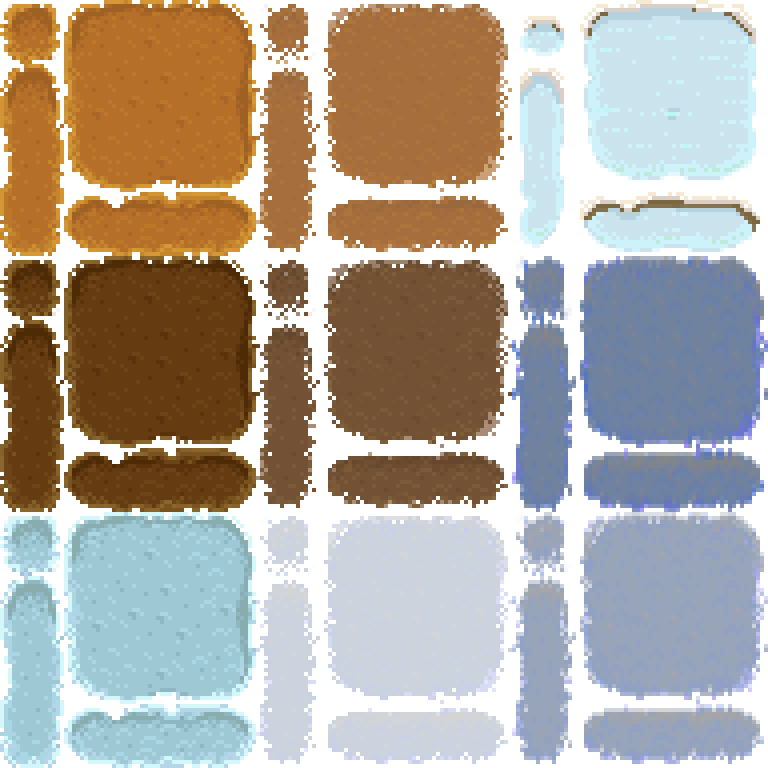
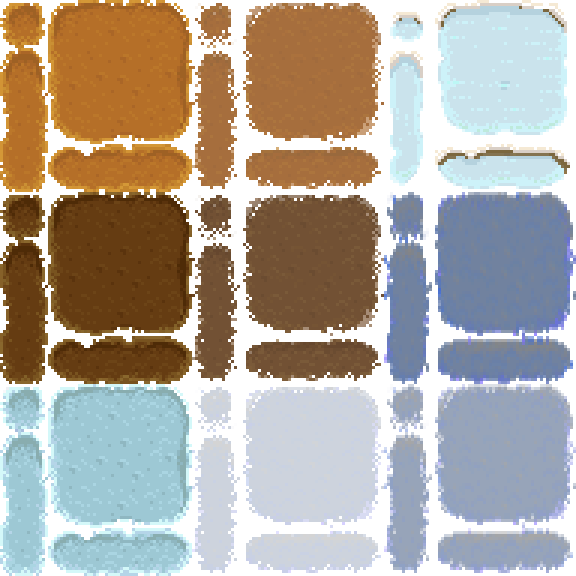
강민정 : 타일맵 흙, 나무 2차 구현

Changed region(s): [[0.3438, 0.0625, 0.375, 0.0938]]

diff --git a/ContentsProject/FarmGameMode.cpp b/ContentsProject/FarmGameMode.cpp
@@ -8,9 +8,11 @@
 
 #include <EngineBase/EngineFile.h>
 #include <EngineBase/EngineDirectory.h>
+#include "ContentsEnum.h"
 
 #include "FarmMap.h"
 #include "Player.h"
+
 
 AFarmGameMode::AFarmGameMode()
 {
@@ -24,9 +26,11 @@ void AFarmGameMode::BeginPlay()
 {
 
 	DirtTileMap = GetWorld()->SpawnActor<ATileMap>();
+	DirtTileMap->Create("Dirt.png", {72,52}, {50, 50 });
 
-	DirtTileMap->Create("Dirt.png", {50,40}, { 64, 64 });
-	
+	TreeTileMap = GetWorld()->SpawnActor<ATileMap>();
+	TreeTileMap->Create("Tree001.png", { 34,16 }, { 96, 160 });
+
 	AFarmMap* GroundTileMap = GetWorld()->SpawnActor<AFarmMap>();
 }
 
@@ -34,9 +38,36 @@ void AFarmGameMode::Tick(float _DeltaTime)
 {
 	Super::Tick(_DeltaTime);
 	APlayer* Player = GetWorld()->GetPawn<APlayer>();
-	if (true == UEngineInput::GetInst().IsPress(VK_LBUTTON))
+
+	if (true == UEngineInput::GetInst().IsDown(VK_RBUTTON))
 	{
-		DirtTileMap->SetTileLocation(Player->GetActorLocation(), 0);
+		++TileImages;
+		if (TileImages > static_cast<int>(ETileImage::Tree001))
+		{
+			TileImages = 0;
+		}
+		return;
 	}
+
+	if (true == UEngineInput::GetInst().IsDown(VK_LBUTTON))
+	{
+
+		switch (static_cast<ETileImage>(TileImages))
+		{
+		case ETileImage::Dirt:
+
+			DirtTileMap->SetTileLocation(Player->GetActorLocation(), 0);
+
+			break;
+		case ETileImage::Tree001:
+
+			TreeTileMap->SetTileLocation(Player->GetActorLocation(), 0);
+			break;
+		default:
+			break;
+		}
+	}
+
+
 
 }

diff --git a/ContentsProject/Player.cpp b/ContentsProject/Player.cpp
@@ -1,5 +1,6 @@
 #include "PreCompile.h"
 #include "Player.h"
+#include "ContentsEnum.h"
 
 #include <EngineCore/EngineAPICore.h>
 #include <EngineCore/SpriteRenderer.h>
@@ -21,6 +22,7 @@ APlayer::APlayer()
         SpriteRenderer->SetSprite("Farmer_Right.png");
         SpriteRenderer->SetSprite("Farmer_Right.png");
         SpriteRenderer->SetSprite("Farmer_Left.png");
+
 
         SpriteRenderer->SetComponentScale({ 166.4f, 332.8f });
 
@@ -160,6 +162,8 @@ void APlayer::LevelChangeEnd()
 void APlayer::CameraCheck()
 {
     FVector2D Size = UEngineAPICore::GetCore()->GetMainWindow().GetWindowSize();
+
+    SpriteRenderer->SetOrder(GetActorLocation().Y);
 
     GetWorld()->SetCameraToMainPawn(false);
     GetWorld()->SetCameraPos({ GetActorLocation() - Size.Half()});

diff --git a/ContentsProject/ContentsCore.cpp b/ContentsProject/ContentsCore.cpp
@@ -49,10 +49,16 @@ void ContentsCore::BeginPlay()
 		UEngineDirectory Dir;
 		Dir.MoveParentToDirectory("Resources//Images");
 		Dir.Append("TileMap//DirtTile");
-		UImageManager::GetInst().CuttingSprite("Dirt.png", { 64, 64 });
+		UImageManager::GetInst().CuttingSprite("Dirt.png", { 48, 48 });
 
 	}
+	{
+		UEngineDirectory Dir;
+		Dir.MoveParentToDirectory("Resources//Images");
+		Dir.Append("TileMap//TreeTile");
+		UImageManager::GetInst().LoadFolder(Dir.GetPathToString());
 
+	}
 	UImageManager::GetInst().CuttingSprite("Farmer_Right.png", { 64, 128 });
 	UImageManager::GetInst().CuttingSprite("Farmer_Left.png", { 64, 128 });
 

diff --git a/ContentsProject/TileMap.h b/ContentsProject/TileMap.h
@@ -41,6 +41,7 @@ public:
 		_Ser >> SpriteIndex;
 
 	}
+
 };
 
 
@@ -75,6 +76,7 @@ public:
 
 	void Serialize(UEngineSerializer& _Ser);
 	void DeSerialize(UEngineSerializer& _Ser);
+
 
 protected:
 

diff --git a/ContentsProject/Player.h b/ContentsProject/Player.h
@@ -30,7 +30,7 @@ protected:
 
 private:
 
-	float Speed = 150.0f;
+	float Speed = 170.0f;
 	int MySpriteIndex = 0;
 
 	class USpriteRenderer* SpriteRenderer;

diff --git a/ContentsProject/ContentsEnum.h b/ContentsProject/ContentsEnum.h
@@ -7,3 +7,9 @@ enum class ERenderOrder
 	Dirt = -5000,
 	PLAYER = 0,
 };
+
+enum class ETileImage
+{
+	Dirt = 0,
+	Tree001 = 1
+};
